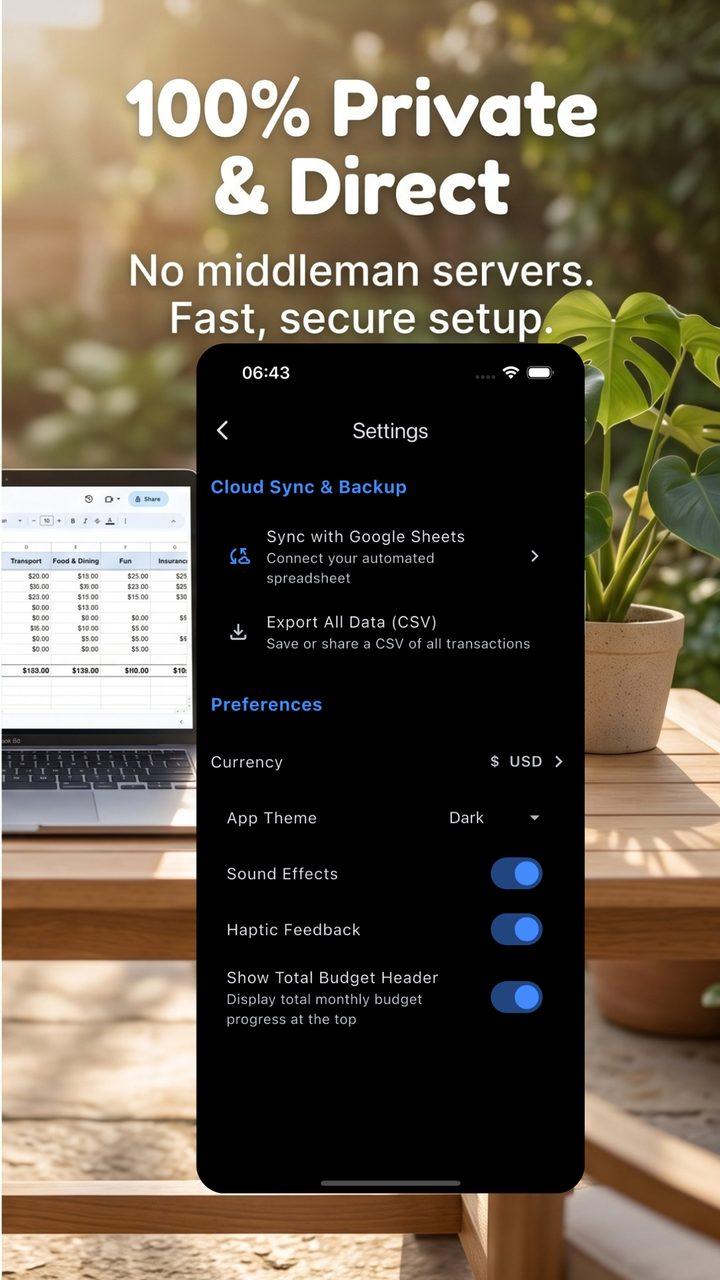
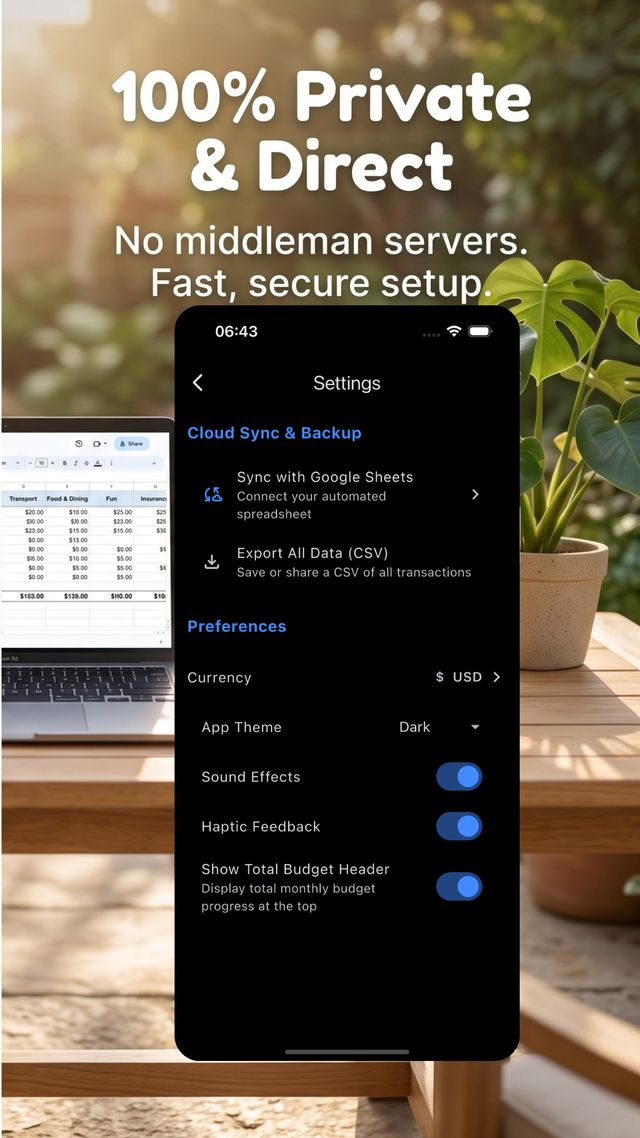
Move screenshots directly under the hero; lighter image encodes

Changed region(s): [[0.4688, 0.7689, 0.5, 0.7996], [0.4062, 0.4306, 0.4375, 0.4613]]

diff --git a/index.html b/index.html
@@ -21,7 +21,7 @@
 <meta name="twitter:image" content="https://neerzanapps-debug.github.io/bubble-budget/assets/images/og-cover.png">
 
 <link rel="icon" href="assets/icons/favicon.svg" type="image/svg+xml">
-<link rel="stylesheet" href="css/styles.css?v=5">
+<link rel="stylesheet" href="css/styles.css?v=6">
 </head>
 <body>
 
@@ -35,8 +35,8 @@
       Bubble Budget
     </a>
     <nav class="nav-links" aria-label="Primary">
-      <a href="#friction">Why bubbles</a>
       <a href="#shots">Screenshots</a>
+      <a href="#friction">Why bubbles</a>
       <a href="#features">Features</a>
       <a href="#privacy">Privacy</a>
       <a href="#sync">Export &amp; sync</a>
@@ -144,8 +144,39 @@
   </div>
 </section>
 
+<!-- ====================================================== SCREENSHOTS -->
+<section id="shots" class="band">
+  <div class="wrap">
+    <div class="section-head center reveal">
+      <span class="eyebrow">The real thing</span>
+      <h2>Straight from the app.</h2>
+      <p class="lead">
+        Screenshots, not mockups. These show the dark theme — Settings has a light one too.
+      </p>
+    </div>
+
+    <div class="shots reveal">
+      <figure>
+        <img src="assets/mockups/bubbles.jpg" width="640" height="1138" decoding="async"
+             alt="The Bubble Budget canvas: seven spending categories as coloured bubbles sized by amount, with the month and total at the top.">
+        <figcaption>The canvas. Size is the amount, colour is the category.</figcaption>
+      </figure>
+      <figure>
+        <img src="assets/mockups/sheets-sync.jpg" width="640" height="1138" decoding="async"
+             alt="The Google Sheets Sync setup screen, offering to email yourself a setup kit or copy the script code.">
+        <figcaption>Sheet sync, set up once. The app emails you the kit.</figcaption>
+      </figure>
+      <figure>
+        <img src="assets/mockups/settings.jpg" width="640" height="1138" decoding="async"
+             alt="The Settings screen showing Export All Data as CSV, currency, app theme, sound effects and haptic feedback.">
+        <figcaption>Settings. CSV export, theme, currency, haptics.</figcaption>
+      </figure>
+    </div>
+  </div>
+</section>
+
 <!-- ======================================================== FRICTION -->
-<section id="friction" class="band">
+<section id="friction">
   <div class="wrap">
     <div class="section-head center reveal">
       <span class="eyebrow">Designed by subtraction</span>
@@ -188,7 +219,7 @@
 </section>
 
 <!-- ================================================== VISUAL CHANNELS -->
-<section id="channels">
+<section id="channels" class="band">
   <div class="wrap">
     <div class="section-head center reveal">
       <span class="eyebrow">Read it, don't compute it</span>
@@ -249,37 +280,6 @@
           Leave the limit off and it simply grows. No push notifications, no red banners, no
           shame — just a ring that's there when you look.</p>
       </article>
-    </div>
-  </div>
-</section>
-
-<!-- ====================================================== SCREENSHOTS -->
-<section id="shots" class="band">
-  <div class="wrap">
-    <div class="section-head center reveal">
-      <span class="eyebrow">The real thing</span>
-      <h2>Straight from the app.</h2>
-      <p class="lead">
-        Screenshots, not mockups. These show the dark theme — Settings has a light one too.
-      </p>
-    </div>
-
-    <div class="shots reveal">
-      <figure>
-        <img src="assets/mockups/bubbles.jpg" width="720" height="1280" loading="lazy"
-             alt="The Bubble Budget canvas: seven spending categories as coloured bubbles sized by amount, with the month and total at the top.">
-        <figcaption>The canvas. Size is the amount, colour is the category.</figcaption>
-      </figure>
-      <figure>
-        <img src="assets/mockups/sheets-sync.jpg" width="720" height="1280" loading="lazy"
-             alt="The Google Sheets Sync setup screen, offering to email yourself a setup kit or copy the script code.">
-        <figcaption>Sheet sync, set up once. The app emails you the kit.</figcaption>
-      </figure>
-      <figure>
-        <img src="assets/mockups/settings.jpg" width="720" height="1280" loading="lazy"
-             alt="The Settings screen showing Export All Data as CSV, currency, app theme, sound effects and haptic feedback.">
-        <figcaption>Settings. CSV export, theme, currency, haptics.</figcaption>
-      </figure>
     </div>
   </div>
 </section>
@@ -580,6 +580,6 @@
   </div>
 </footer>
 
-<script src="js/main.js?v=5"></script>
+<script src="js/main.js?v=6"></script>
 </body>
 </html>
